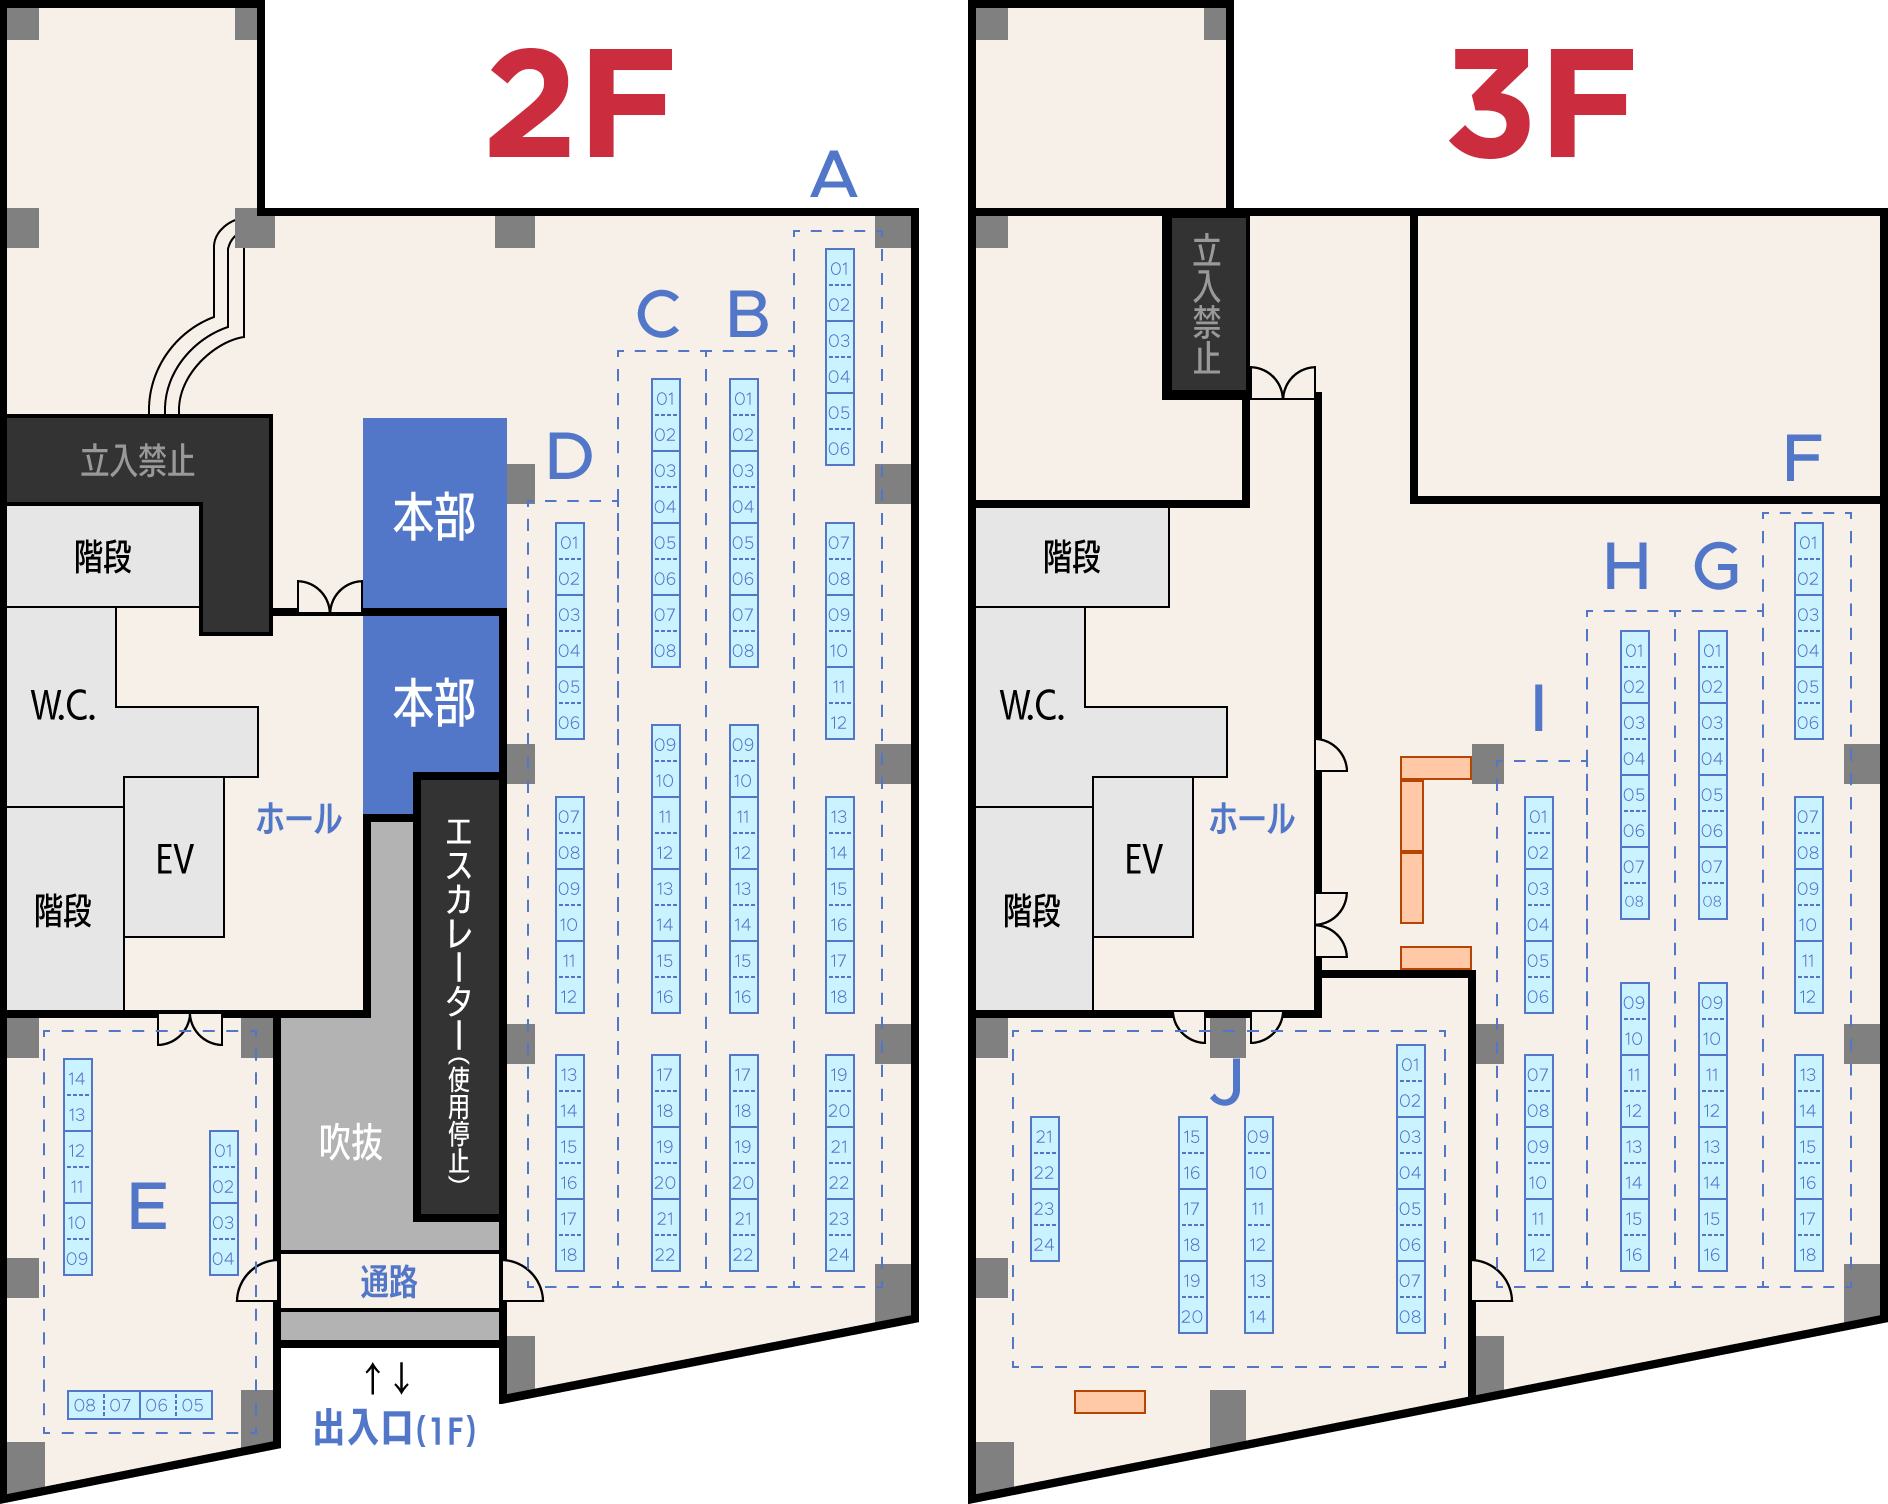
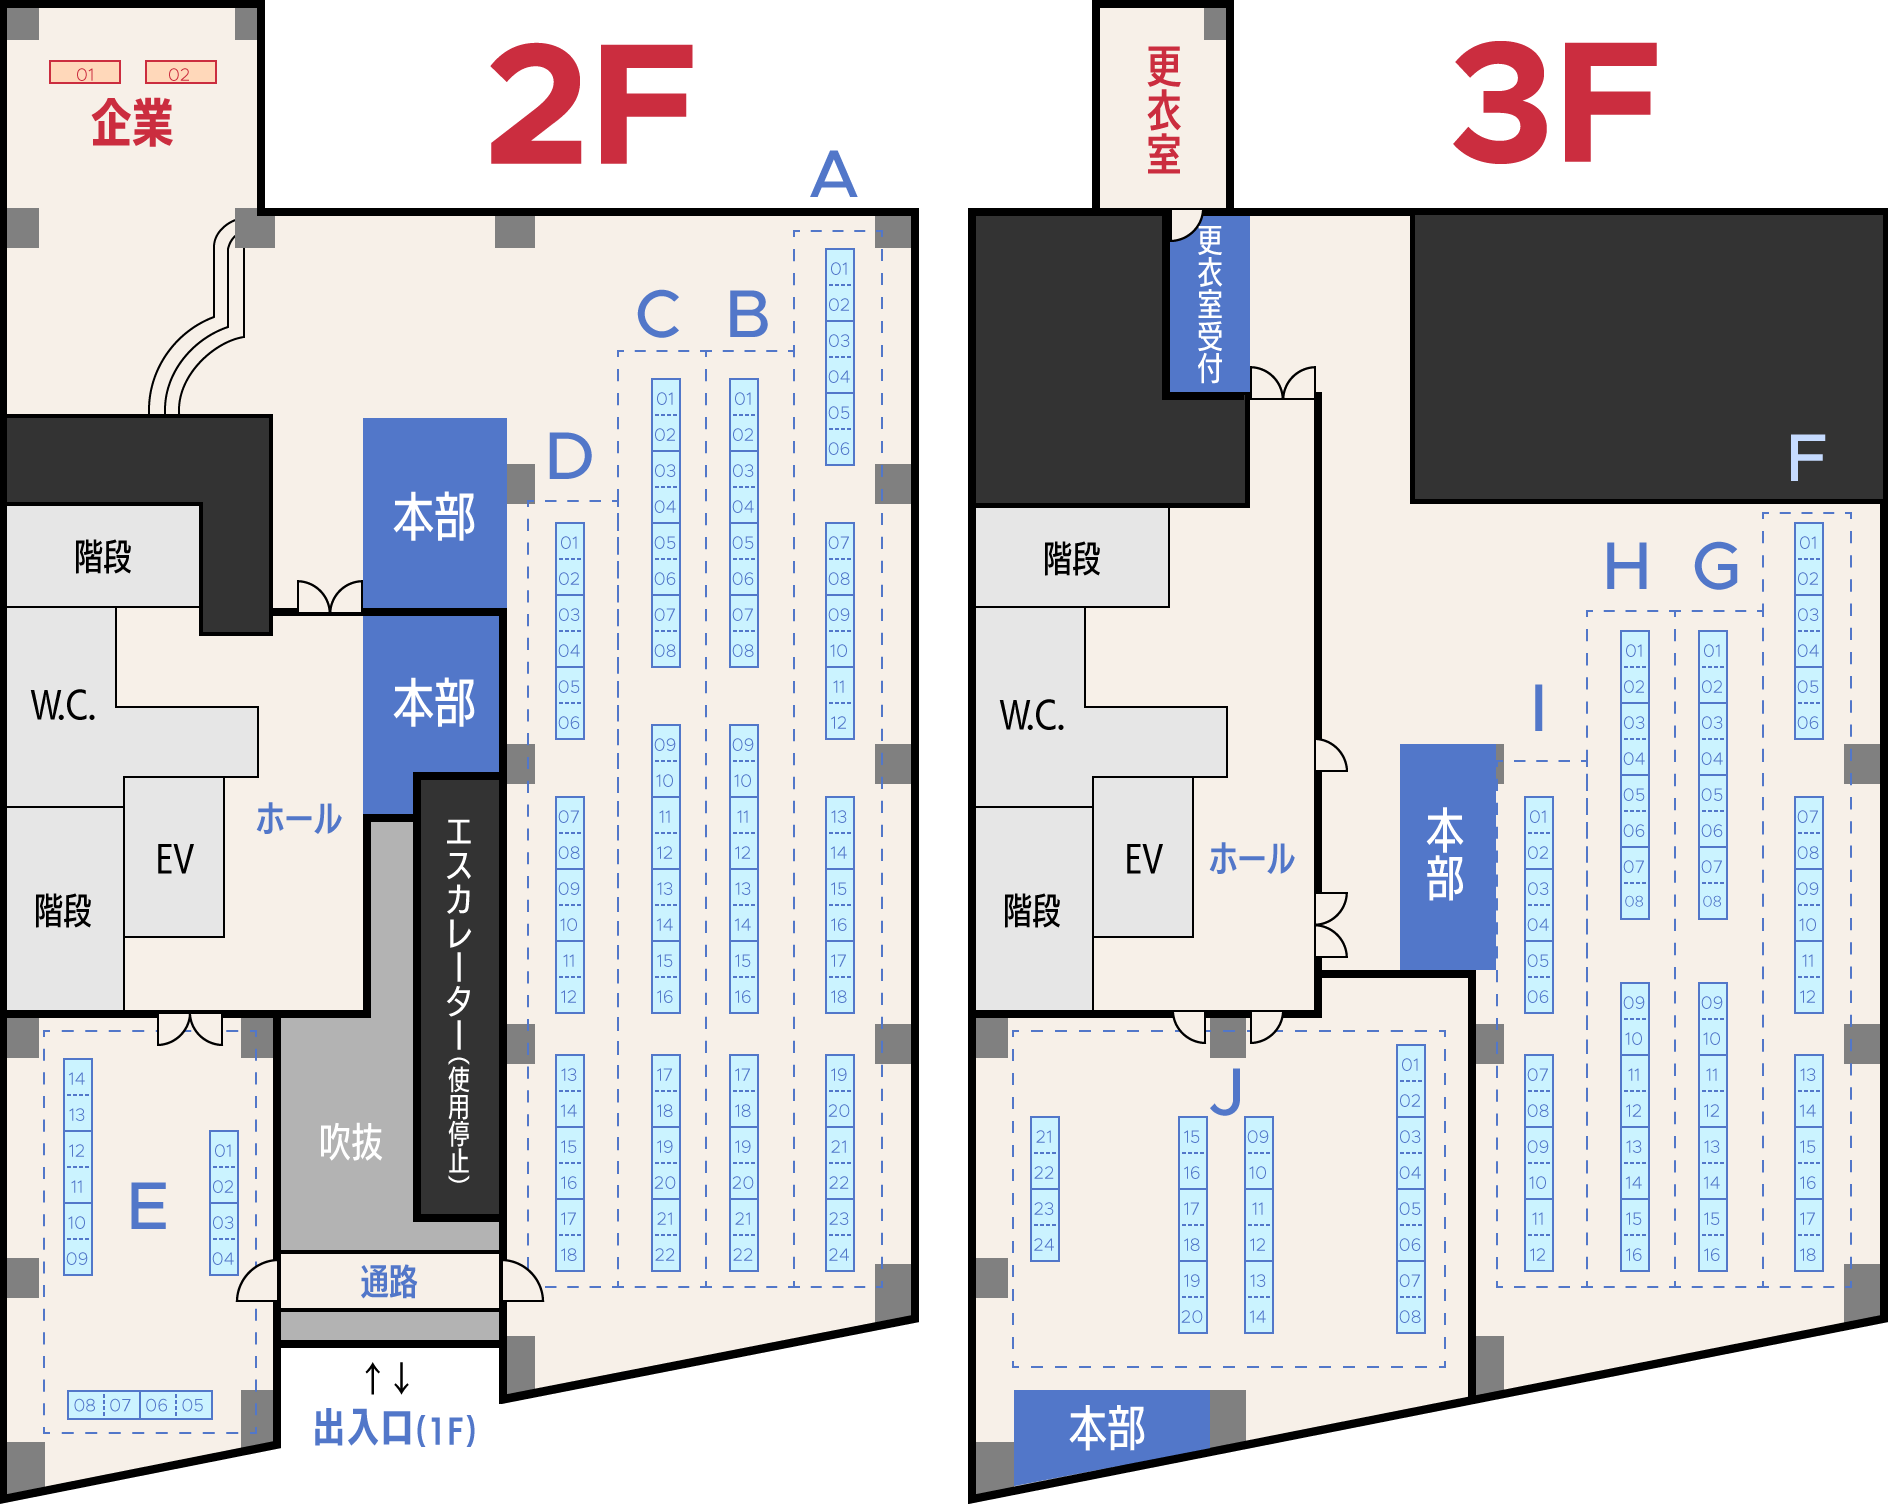
add nijisanji data

diff --git a/client/config/nijisanji/config.js b/client/config/nijisanji/config.js
@@ -58,6 +58,8 @@ const mappings = [
       })
     })
   ]),
+  { sym: "企業", num: 1, left: 51,  top: 62, width: 69, height: 21 },
+  { sym: "企業", num: 2, left: 147, top: 62, width: 69, height: 21 },
 ];
 
 module.exports = {
